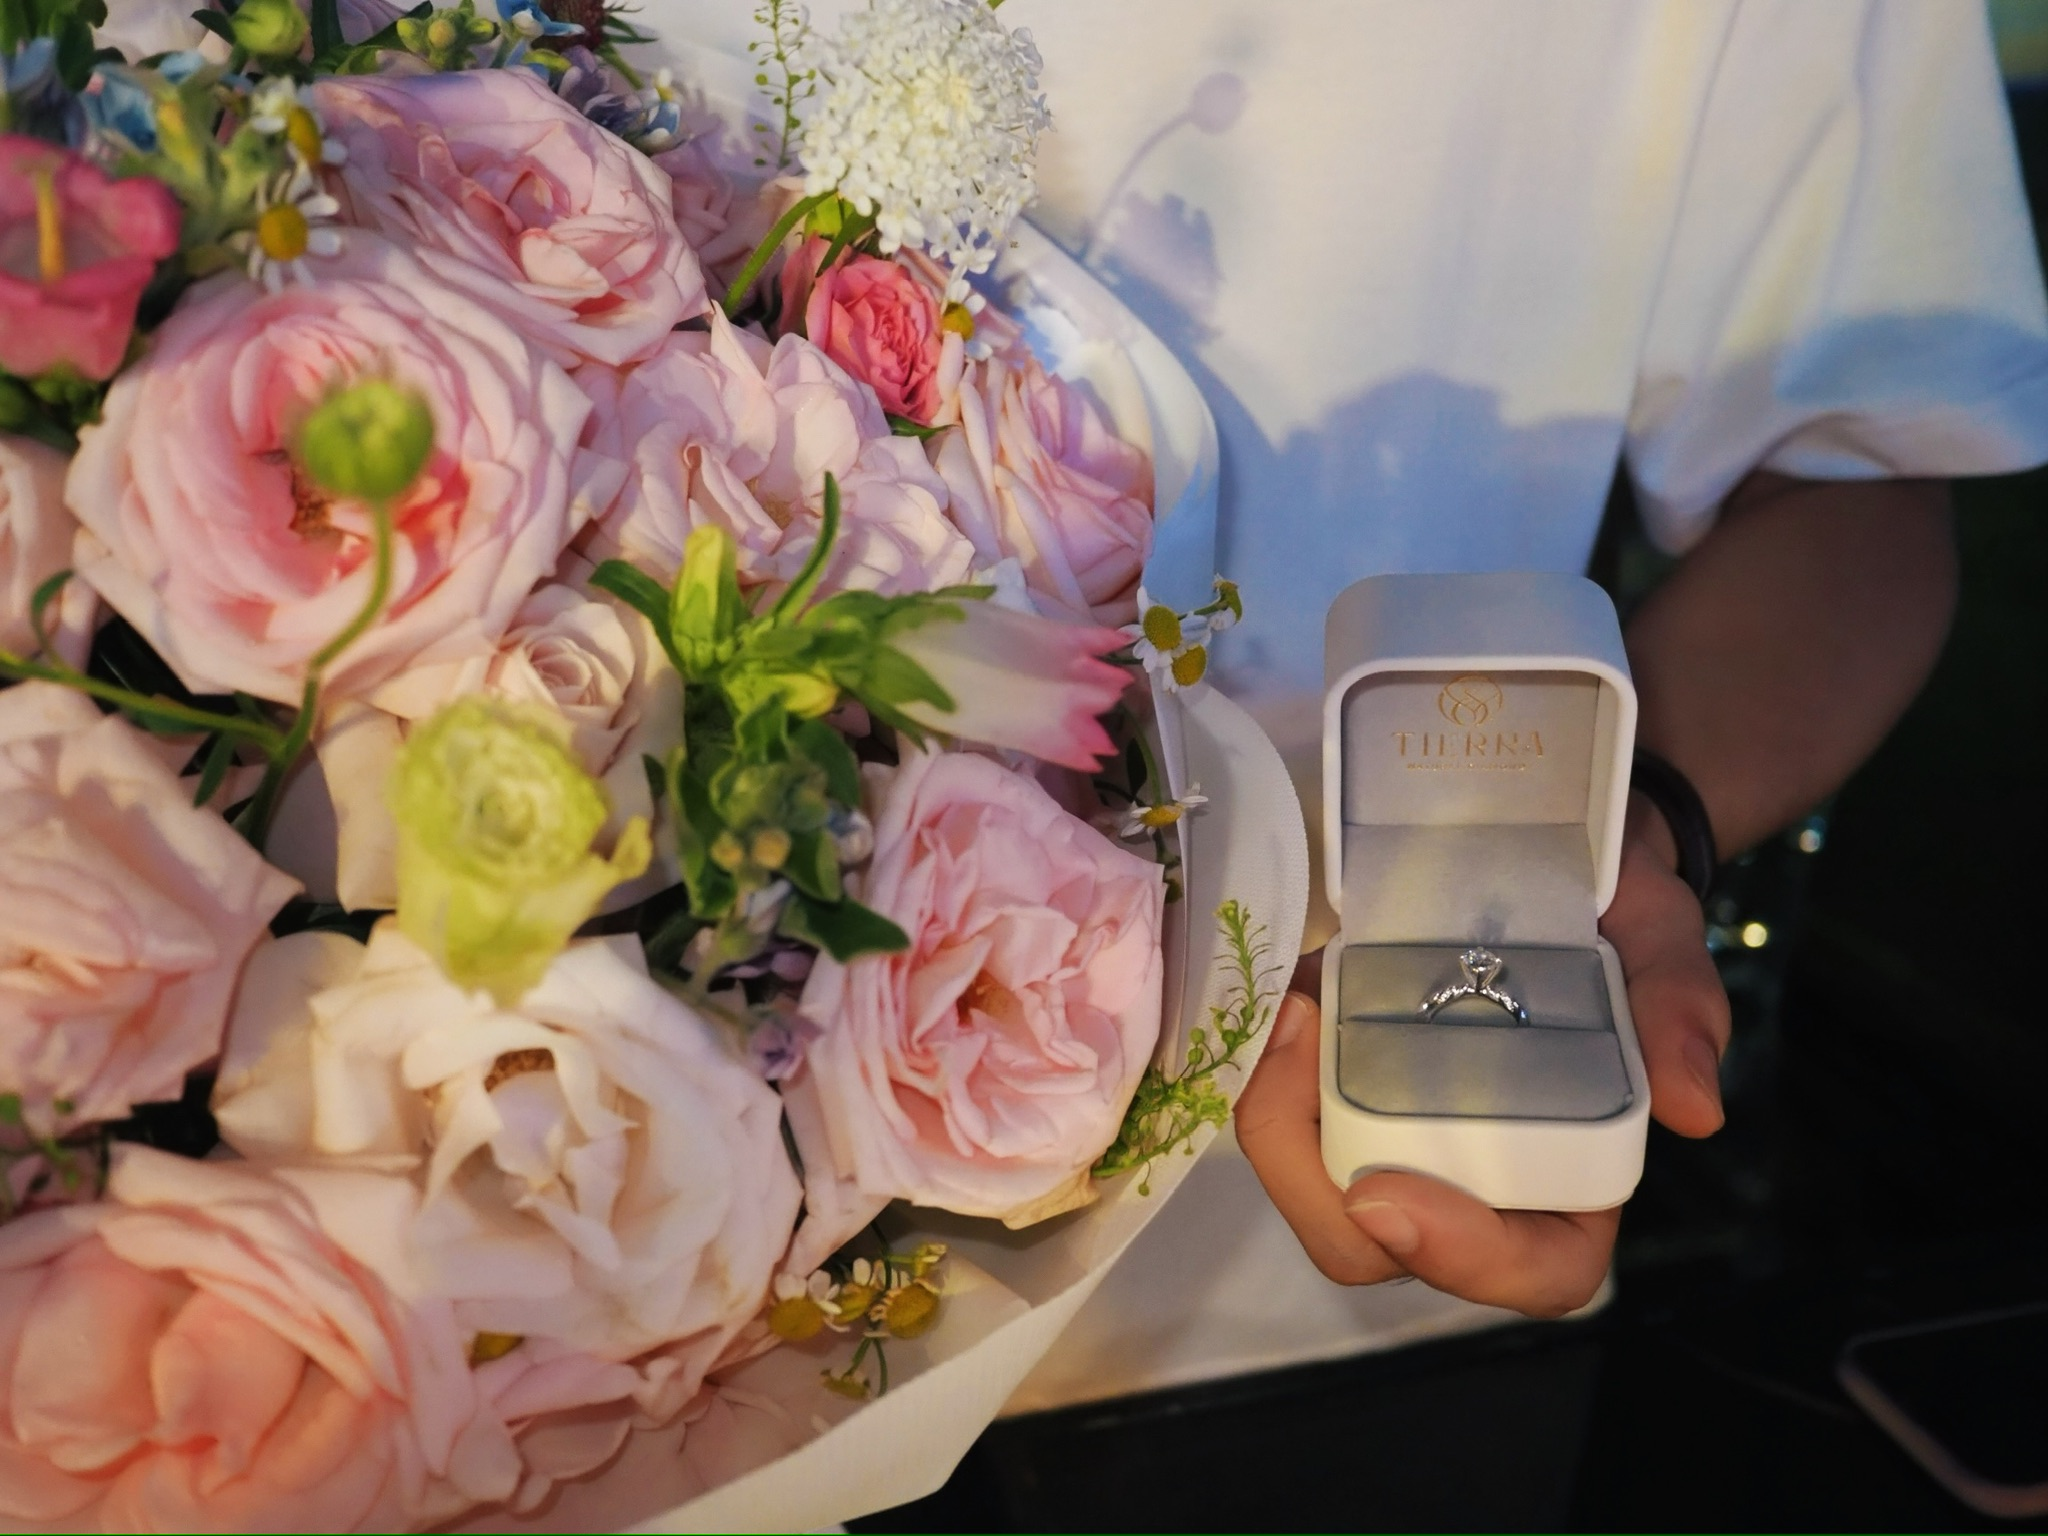
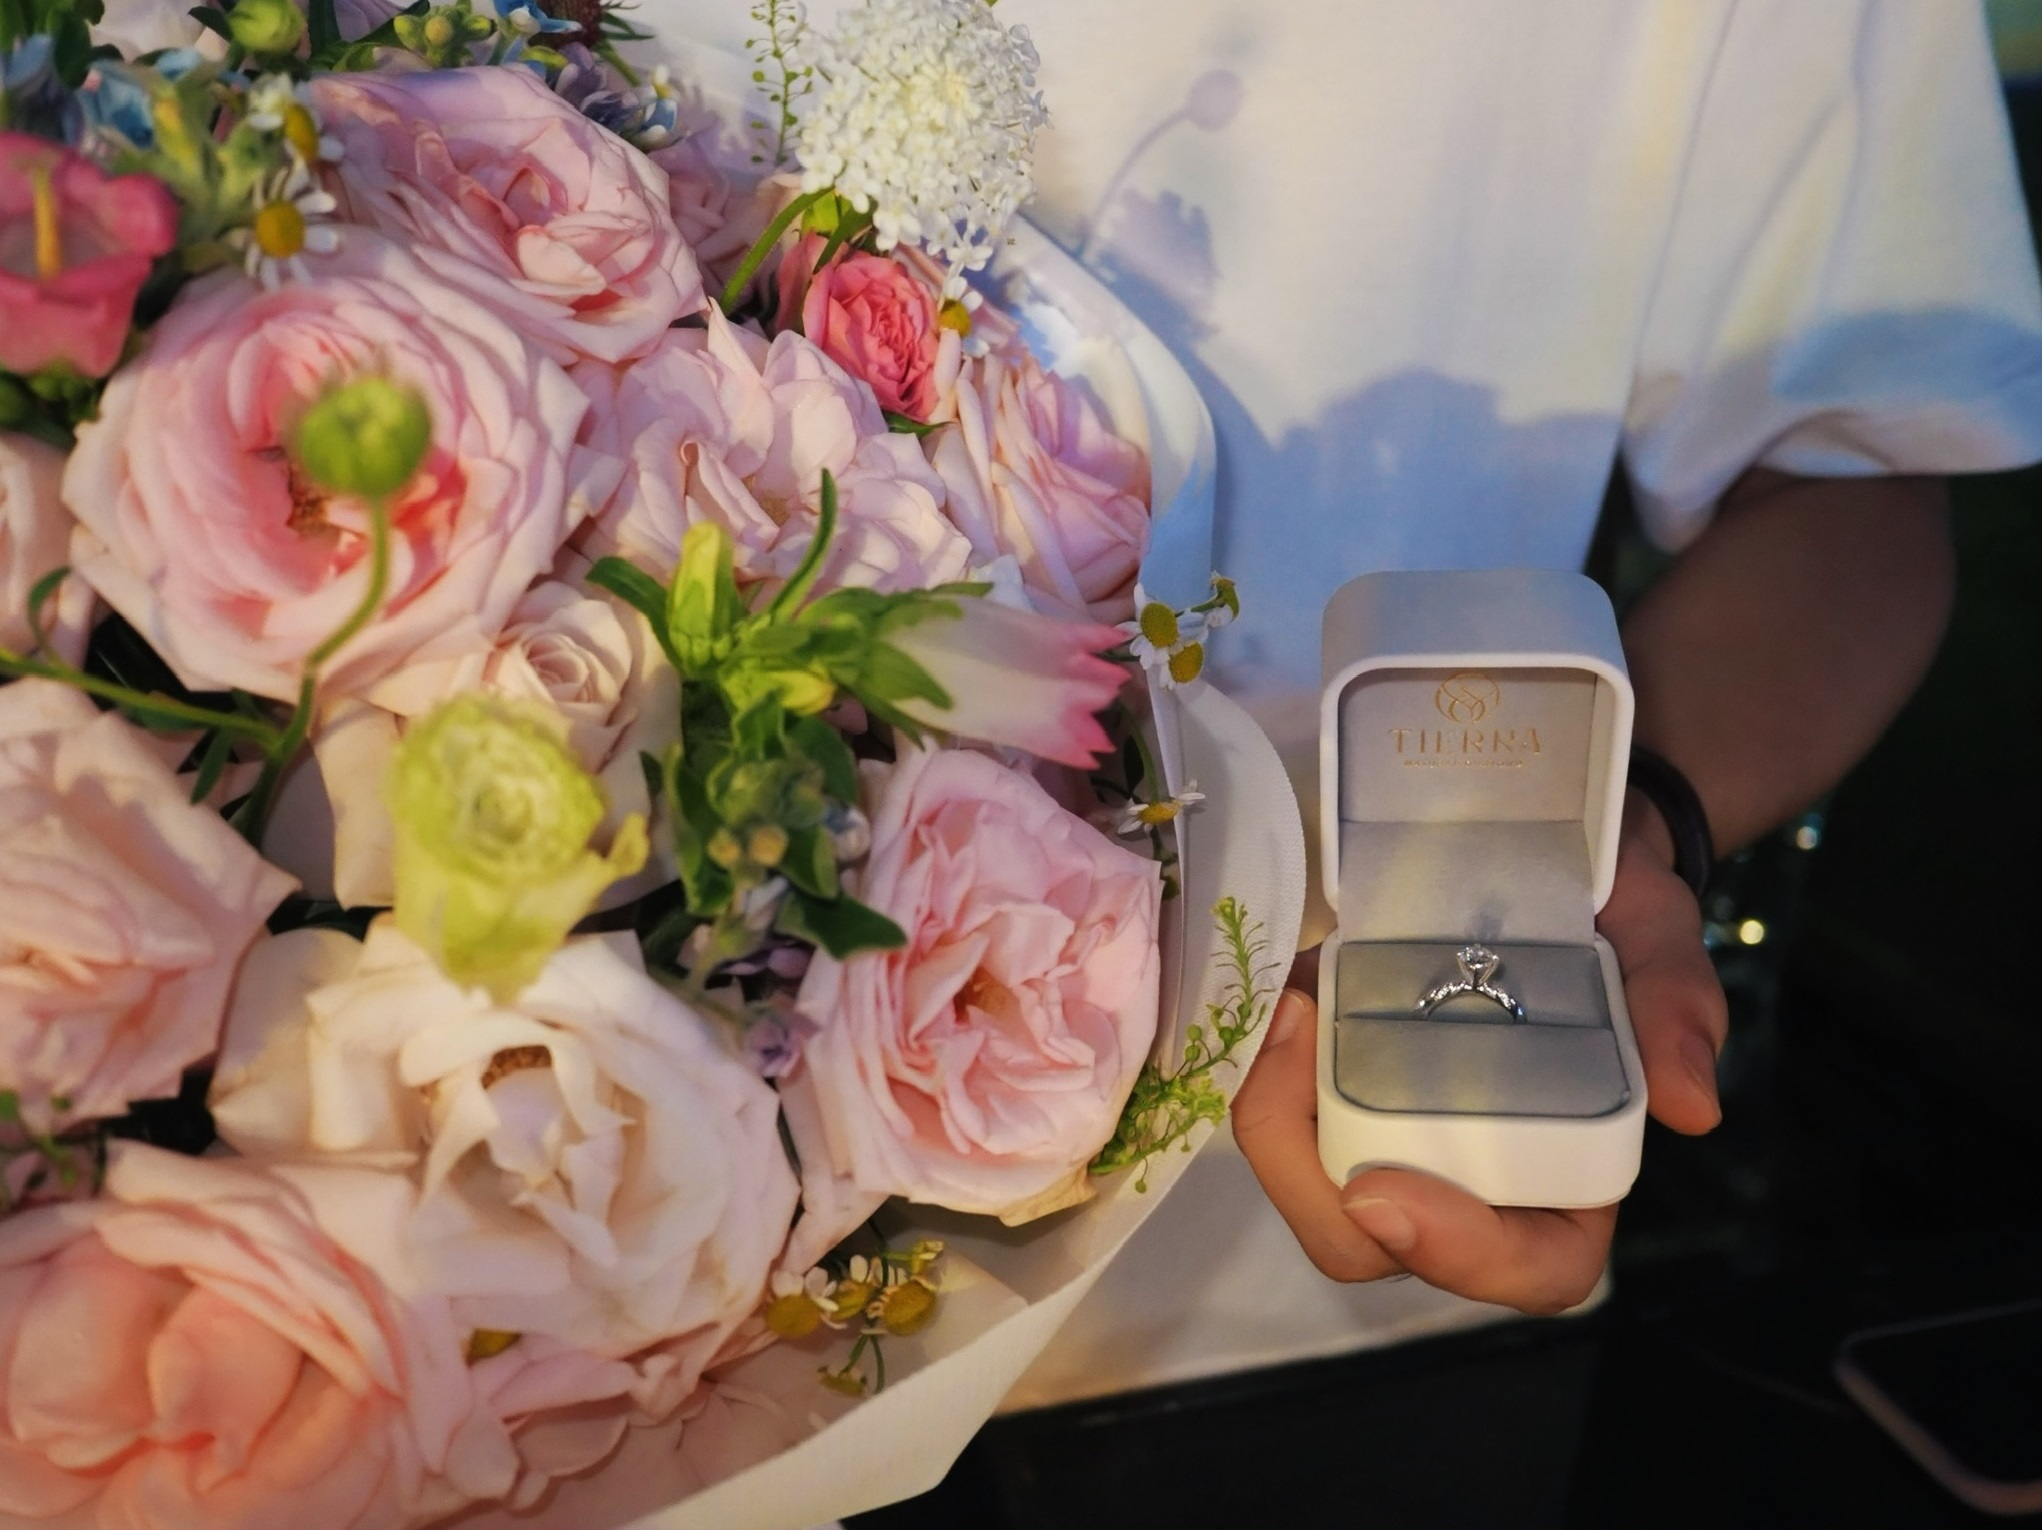
update

diff --git a/kh.html b/kh.html
@@ -407,6 +407,7 @@
 </style>
 <!-- Chuyến đi -->
 <style>
+    
     .trips-grid {
         display: grid;
         grid-template-columns: repeat(auto-fill, minmax(320px, 1fr));
@@ -534,7 +535,7 @@
     justify-content: center;
     padding: 60px 0;
     gap: 12px;
-    color: #666;
+    color: #EB2F8C;
 }
 
 .trip-gallery-loading.active {
@@ -544,7 +545,7 @@
 .spinner {
     width: 36px;
     height: 36px;
-    border: 3px solid #ddd;
+    border: 3px solid #EB2F8C;
     border-top-color: #333;
     border-radius: 50%;
     animation: spin 0.8s linear infinite;
@@ -564,7 +565,7 @@
         right: 10px;
         font-size: 30px;
         cursor: pointer;
-        color: #a4a5a6;
+        color: #EB2F8C;
     }
 
     .trip-gallery-container {
@@ -1096,6 +1097,47 @@
         font-size: 16px;
         margin-top: 14px;
     }
+    .media-grid-loading,
+.lb-loading {
+    display: none;
+    align-items: center;
+    justify-content: center;
+    padding: 60px 0;
+}
+
+.media-grid-loading.active,
+.lb-loading.active {
+    display: flex;
+}
+
+.lb-loading {
+    position: absolute;
+    inset: 0;
+    z-index: 5;
+    background: rgba(0,0,0,0.3);
+}
+
+.media-grid.loading-state {
+    opacity: 0;
+}
+
+.spinner {
+    width: 36px;
+    height: 36px;
+    border: 3px solid #ddd;
+    border-top-color: #333;
+    border-radius: 50%;
+    animation: spin 0.8s linear infinite;
+}
+
+.spinner-light {
+    border: 3px solid rgba(255,255,255,0.3);
+    border-top-color: #fff;
+}
+
+@keyframes spin {
+    to { transform: rotate(360deg); }
+}
 </style>
 
 <body>
@@ -1479,19 +1521,30 @@
                             <span class="album-sub" id="album-sub"></span>
                         </div>
                     </div>
-                    <div class="media-grid" id="media-grid"></div>
+                    <!-- THÊM MỚI -->
+    <div id="media-grid-loading" class="media-grid-loading">
+        <div class="spinner"></div>
+    </div>
+
+    <div class="media-grid" id="media-grid"></div>
                 </div>
 
             </div>
 
             <!-- Lightbox -->
             <div class="lightbox" id="lightbox">
-                <button class="lb-close" onclick="closeLb()">✕</button>
-                <button class="lb-nav lb-prev" onclick="lbNav(-1)"><i class="ti ti-chevron-left"></i></button>
-                <div id="lb-track"></div>
-                <button class="lb-nav lb-next" onclick="lbNav(1)"><i class="ti ti-chevron-right"></i></button>
-                <span class="lb-hint" id="lb-hint"></span>
-            </div>
+    <button class="lb-close" onclick="closeLb()">✕</button>
+    <button class="lb-nav lb-prev" onclick="lbNav(-1)"><i class="ti ti-chevron-left"></i></button>
+
+    <!-- THÊM MỚI -->
+    <div id="lb-loading" class="lb-loading">
+        <div class="spinner spinner-light"></div>
+    </div>
+
+    <div id="lb-track"></div>
+    <button class="lb-nav lb-next" onclick="lbNav(1)"><i class="ti ti-chevron-right"></i></button>
+    <span class="lb-hint" id="lb-hint"></span>
+</div>
         </div>
     </section>
 

diff --git a/static/js/img_special.js b/static/js/img_special.js
@@ -118,28 +118,27 @@
         }
 
         function watchScroll() {
-            const track = document.getElementById('lb-track');
-            track.onscroll = () => {
-                if (lbScrolling) return;
-                lbScrolling = true;
-                // Dùng requestAnimationFrame để đợi snap xong
-                const check = () => {
-                    const slideW = track.offsetWidth + 24;
-                    const newIdx = Math.round(track.scrollLeft / slideW);
-                    if (newIdx !== lbIdx && newIdx >= 0 && newIdx < currentAlbum.media.length) {
-                        lbIdx = newIdx;
-                        updateHint();
-                    }
-                    // Kiểm tra xem scroll đã dừng chưa
-                    if (Math.abs(track.scrollLeft - lbIdx * slideW) < 2) {
-                        lbScrolling = false;
-                    } else {
-                        requestAnimationFrame(check);
-                    }
-                };
+    const track = document.getElementById('lb-track');
+    track.onscroll = () => {
+        if (lbScrolling) return;
+        lbScrolling = true;
+        const check = () => {
+            const slideW = track.offsetWidth + 24;
+            const newIdx = Math.round(track.scrollLeft / slideW);
+            if (newIdx !== lbIdx && newIdx >= 0 && newIdx < currentAlbum.media.length) {
+                lbIdx = newIdx;
+                updateHint();
+                watchCurrentSlideLoading(); // thêm dòng này
+            }
+            if (Math.abs(track.scrollLeft - lbIdx * slideW) < 2) {
+                lbScrolling = false;
+            } else {
                 requestAnimationFrame(check);
-            };
-        }
+            }
+        };
+        requestAnimationFrame(check);
+    };
+}
 
         function openLb(idx) {
             lbIdx = idx;
@@ -171,12 +170,15 @@
         }
 
         function lbNav(d) {
-            const next = lbIdx + d;
-            if (next < 0 || next >= currentAlbum.media.length) return;
-            const track = document.getElementById('lb-track');
-            const slideW = track.offsetWidth + 24;
-            track.scrollTo({ left: next * slideW, behavior: 'smooth' });
-        }
+    const next = lbIdx + d;
+    if (next < 0 || next >= currentAlbum.media.length) return;
+    lbIdx = next; // cập nhật ngay để loading check đúng slide
+    updateHint();
+    watchCurrentSlideLoading();
+    const track = document.getElementById('lb-track');
+    const slideW = track.offsetWidth + 24;
+    track.scrollTo({ left: next * slideW, behavior: 'smooth' });
+}
 
         // Click ngoài đóng
         document.getElementById('lightbox').addEventListener('mousedown', e => {

diff --git a/static/js/img_json.js b/static/js/img_json.js
@@ -1,4 +1,6 @@
 const images = [
+    { src: "images/kh/14-06-2026/14-06-2026.jpg", caption: "14-06-2026" },
+
     { src: "images/kh/31-05-2026/31-05-2026.jpg", caption: "31-05-2026" },
     { src: "images/kh/31-05-2026/31-05-2026 (1).jpg", caption: "31-05-2026" },
     { src: "images/kh/31-05-2026/31-05-2026 (2).jpg", caption: "31-05-2026" },